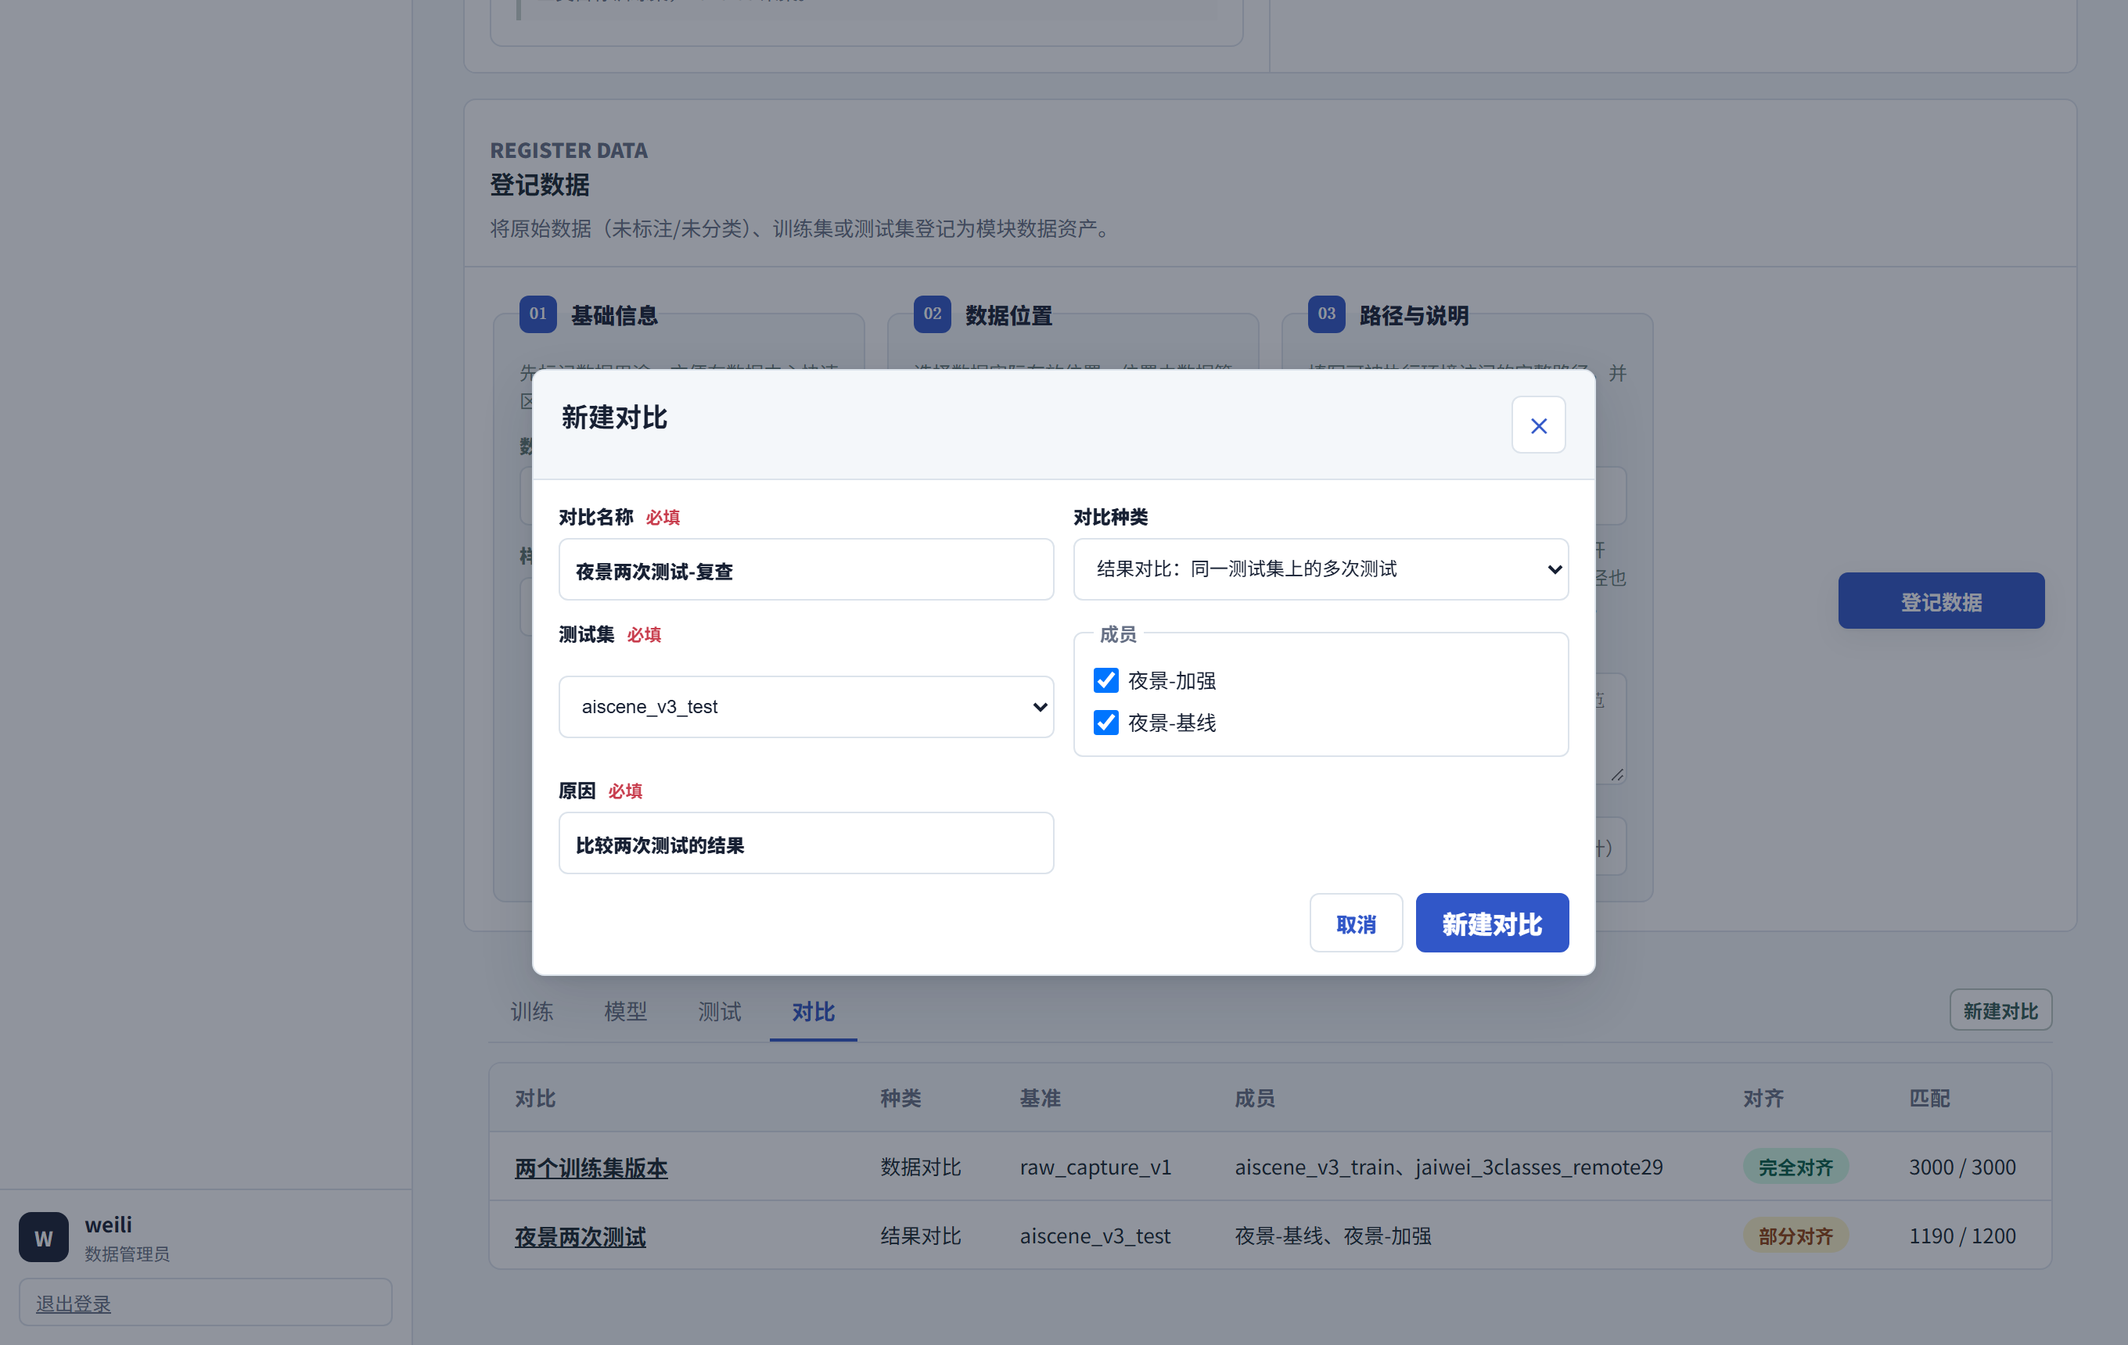
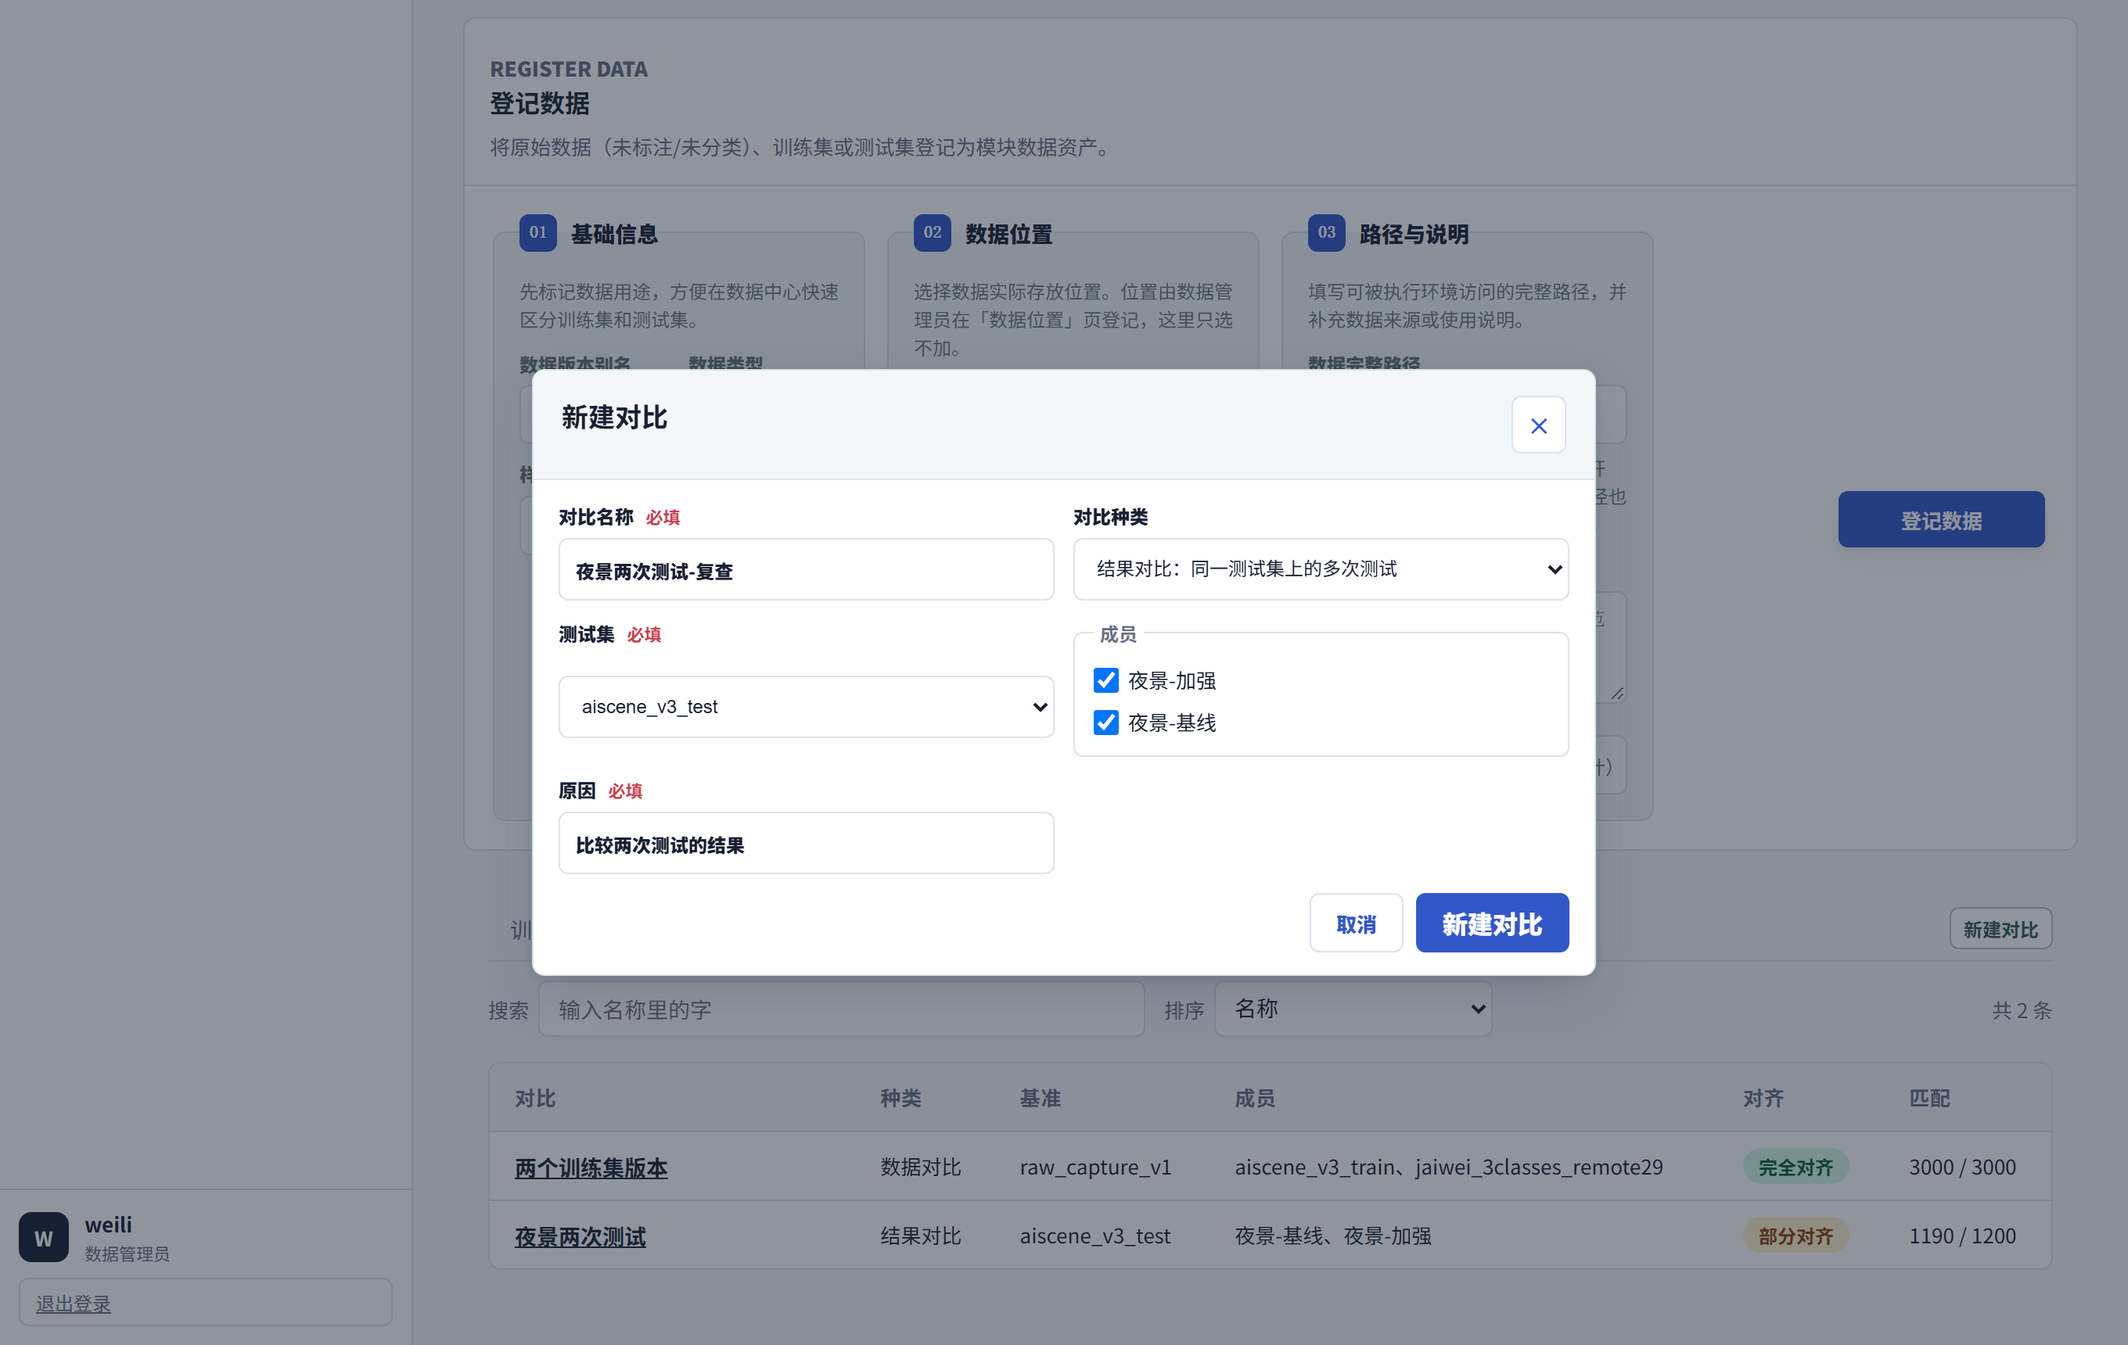
0.3.87：列表和检索的排序、筛选
- 对话教程加「列表太长时」：能怎么说、能按什么排、没冻结的排最后、模块名直接说。
- 网页教程补搜索框和排序下拉框的说明，常见现象加两条；数据平台页工具表三行补上排序。
- 更新说明 0.3.87，下载区按 installer-v0.3.87 同步；演示环境重出 14 张截图。

Claude-Session: https://claude.ai/code/session_01Dq1FxKBycmGyXBiYwHn92z

diff --git a/app/content/data-tutorials.tsx b/app/content/data-tutorials.tsx
@@ -48,6 +48,7 @@ export const dataWeb: DocPage = {
         <p>没有合适的模块时，负责人在项目页点右上角的「创建模块」。模块标识用英文，建好后不能改。没有合适的项目时，在项目列表点「创建项目」，创建的人就是负责人。</p>
         <Figure src={shot("web-create-module")} alt="创建模块对话框" caption="创建模块。模块标识、模块名称和创建原因都要填。" source="console-fixture" />
         <p>进入模块后，上面按原始数据、训练数据、测试数据分三栏列出已登记的记录，往下是登记表单，再往下是训练、模型、测试、对比四个标签。</p>
+        <p>项目列表、模块列表、三栏记录和四个标签的上方都有搜索框和排序下拉框。默认顺序和以前一样；选过的排序，下次打开同一张表还在。</p>
         <Figure src={shot("web-module")} alt="模块页" caption="模块页（数据中心）。右上角有「导入 CSV」和「合并数据」。" source="console-fixture" />
       </>,
     },
@@ -68,7 +69,7 @@ export const dataWeb: DocPage = {
           ]}
         />
         <Figure src={shot("web-register-form")} alt="填好的登记数据表单" caption="填好的登记表单。填完点右侧的「登记数据」。" source="console-fixture" />
-        <p>提交后先显示已提交，一两秒后变成「已生效」或「被拒绝」并写明原因。记录出现在上方对应的栏里。</p>
+        <p>提交后先显示已提交，一两秒后变成「已生效」或「被拒绝」并写明原因。记录出现在上方对应的栏里。记录多了以后，在三栏上方的搜索框里输入名字、描述或路径里的字就能找到，排序可以选登记时间、名称、大小、样本数或状态。</p>
         <Figure src={shot("web-registered")} alt="登记后的记录卡片" caption="登记成功。进入这条数据要点卡片上的「版本详情」。" source="console-fixture" />
       </>,
     },
@@ -160,7 +161,7 @@ export const dataWeb: DocPage = {
         />
         <FigureRow>
           <Figure src={shot("web-training-dialog")} alt="登记训练对话框" caption="登记训练。输入数据选了 night-train-v2，作训练。" source="console-fixture" />
-          <Figure src={shot("web-training-list")} alt="训练列表" caption="登记后的训练列表。" source="console-fixture" />
+          <Figure src={shot("web-training-list")} alt="训练列表" caption="登记后的训练列表。表格上方可以搜索和排序。" source="console-fixture" />
         </FigureRow>
       </>,
     },
@@ -211,6 +212,7 @@ export const dataWeb: DocPage = {
         <Figure src={shot("web-comparison-dialog")} alt="新建对比对话框" caption="新建结果对比。没冻结的基准显示为灰色，选不了。" source="console-fixture" />
         <p>建好后平台逐个样本配对，列表上显示对齐状态和匹配数。点对比名字进入对比页，能看血缘、成员信息和对齐报告。对比的基准和成员建好后不能改，建错了就新建一个。</p>
         <Figure src={shot("web-comparison-list")} alt="对比列表" caption="对比列表。匹配一栏是对上的样本数和总数。" source="console-fixture" />
+        <p>对比多了以后，排序选「状态（出问题的在前）」，对齐失败、对不上的和标着「数据已更新」的会排在前面。</p>
         <p>对比建好后，基准或成员重新冻结过、改过配对规则，对齐状态旁边会显示「数据已更新」。到对比页点「重新对齐」，见<a href={pageHref("data-review") + "#stale"}>数据已更新和重新对齐</a>。</p>
         <Note title="看图要回到 agent">图片不经过云端，要先拷到你的电脑。网页上做不了这一步，在 Claude Code 里说「打开对比 X 的查看器」，见<a href={pageHref("data-review")}>查看数据和结果对比</a>。</Note>
       </>,
@@ -314,6 +316,8 @@ export const dataWeb: DocPage = {
             ["冻结失败，提示 ssh_not_configured", "位置没填 NAS 共享名，或数据在训练机本地盘", "前者找数据管理员补填；后者目前冻结不了"],
             ["「派生自」里找不到想要的数据", "它在别的模块", "用对话方式写来源"],
             ["状态一直是进行中", "登记时没选「已完成」", "详情页点「修改」，改状态"],
+            ["选过的排序下次没记住", "无痕窗口，或浏览器禁止网站存数据", "不影响使用，按默认顺序显示"],
+            ["三栏上方提示只显示最新的 N 条", "这个模块的记录超过一次能取回的量（500 条）", "排序和搜索只在这 N 条里；用搜索框缩小范围"],
             ["测试集下拉框是空的", "这个模块没有测试数据", "先登记测试数据"],
             ["新建对比时基准是灰的", "它还没冻结", "到版本页先冻结"],
             ["新建对比时基准标着「（没有图片）」", "数据里没有图片，比如只有 .npy", <>在训练环境转成图片，登记成新版本，见<a key="a" href="#no-images">不是图片的数据</a></>],
@@ -574,7 +578,34 @@ export const dataAgent: DocPage = {
     {
       id: "check", title: "查登记结果",
       body: <>
-        <p>直接问 agent，比如「phase2 里有哪些数据，来源是什么」「reg-test-v2 冻结完了吗」。也可以到<a href={pageHref("data-web")}>网页</a>上看：模块页列出所有记录，版本页显示清单状态和来源。</p>
+        <p>直接问 agent，比如「phase2 里有哪些数据，来源是什么」「reg-test-v2 冻结完了吗」。也可以到<a href={pageHref("data-web")}>网页</a>上看：模块页列出所有记录，版本页显示清单状态和来源。数据多的时候见<a href="#long-lists">列表太长时</a>。</p>
+      </>,
+    },
+    {
+      id: "long-lists", title: "列表太长时",
+      body: <>
+        <p>v0.3.87 起，列数据、搜数据、看清单里的文件都能排序和缩小范围。结果比显示的多时，agent 会先说一共多少条，再问你要不要缩小或换个排法。</p>
+        <Matrix
+          head={["想要", "可以这样说"]}
+          rows={[
+            ["按大小", "phase2 的测试数据按大小从大到小"],
+            ["只看一类", "phase2 里只看原始数据"],
+            ["按名称", "搜一下名字带 reg-test 的数据，按名称排"],
+            ["按模块", "所有项目里的测试数据，按模块排"],
+            ["最新的几条", "所有项目里最近登记的 5 条训练数据"],
+            ["出问题的在前", "phase2 的对比按状态排"],
+            ["最大的文件", "reg-test-mset 里最大的 10 个文件"],
+            ["某个来源的文件", "reg-test-mset 里只看来源 reg-test-set 的文件"],
+            ["翻页", "再给我看后面 20 条"],
+          ]}
+        />
+        <p>能按登记时间、名称、模块、大小、样本数、类型、状态排。几点说明：</p>
+        <ul>
+          <li>没冻结的数据还没有大小，按大小排时放在最后，正着排倒着排都一样。</li>
+          <li>名称按字符排，v10 会排在 v2 前面。网页上是按自然顺序排的，v2 在前。</li>
+          <li>模块直接说名字或标识（如 phase2）就行，agent 会按模块查，不会把它当成数据名字里的字。</li>
+          <li>状态排序把出问题的放前面：冻结失败、正在冻结、还没冻结，然后才是已冻结；训练和测试是失败和已中止、进行中、已完成；对比是对齐失败、基本对不上、部分对齐、对齐中、完全对齐，网页上标着「数据已更新」的完全对齐排在没标的前面。</li>
+        </ul>
       </>,
     },
     {
@@ -624,6 +655,8 @@ export const dataAgent: DocPage = {
             ["训练或测试一直显示进行中", "登记时没写状态", "说「把这次训练的状态改成已完成」"],
             ["改来源时提示这份数据有多个来源", "安装器低于 v0.3.86，旧版只能写一个来源", "升级到 v0.3.86 起，或到网页上改"],
             ["agent 说不能建合并集", "安装器低于 v0.3.86", "升级后开新会话"],
+            ["说「按大小排」，agent 说做不到，或者拿回来自己排", "安装器低于 v0.3.87", "升级后开新会话"],
+            ["按大小排时有几条排在最后、没有大小", "这几条还没冻结", "正常，冻结后就有大小"],
             ["合并被拒绝", "有成员没冻结、正在冻结、类型不同、本身是合并集，或来源名不合规则", "按提示处理"],
             ["建对比或打开查看器提示没有可看的图片", "数据是 .npy 等非图片文件", <>在训练环境转成图片，见<a key="a" href="#no-images">不是图片的数据</a></>],
           ]}

diff --git a/app/content/platform.tsx b/app/content/platform.tsx
@@ -271,7 +271,7 @@ export const dataPlatform: DocPage = {
             [<code key="t">list_data_projects</code>, "列出我能看到的项目，带我的角色、模块数、记录数", "所有人"],
             [<code key="t">list_data_modules</code>, "列出某个项目的模块，带三类数据各多少条", "项目成员，含只读"],
             [<code key="t">list_data_locations</code>, "列出可以选的数据位置：名字、IP、服务器还是共享盘", "所有人"],
-            [<code key="t">search_data_records</code>, "按关键词、项目、模块、数据类型搜数据记录", "项目成员"],
+            [<code key="t">search_data_records</code>, "按关键词、项目、模块、数据类型搜数据记录，可以跨模块。v0.3.87 起能按登记时间、名称、模块、大小、样本数、类型排序", "项目成员"],
             [<code key="t">get_data_record</code>, "看一条记录的详情和修改历史", "项目成员"],
             [<code key="t">list_data_accounts</code>, "列出已开通的账号，加成员时从这里挑", "数据管理员"],
             [<code key="t">create_data_project</code>, "建项目，调用的人成为负责人", "所有人"],
@@ -279,9 +279,9 @@ export const dataPlatform: DocPage = {
             [<code key="t">set_data_project_member</code>, "加成员或改角色（负责人、成员、只读）", "项目负责人"],
             [<code key="t">register_data_record</code>, "登记一条数据，必须给数据类型（v0.3.83 起）。别名在模块里已存在时不写入，返回已有的那条", "负责人、成员"],
             [<code key="t">register_data_records</code>, "一次最多登记 200 条，每条都要给数据类型，每条单独检查，错的那条不影响其他条", "负责人、成员"],
-            [<code key="t">list_data_assets</code>, "列出模块里的数据集版本、训练、模型、测试或对比（v0.3.80 起）", "项目成员"],
+            [<code key="t">list_data_assets</code>, "列出模块里的数据集版本、训练、模型、测试或对比（v0.3.80 起）。v0.3.87 起能按登记时间、名称、状态排序，数据集还能按大小、样本数排、按类型筛", "项目成员"],
             [<code key="t">get_data_asset</code>, "看一个对象的详情：路径、清单状态、血缘、说明，对比还带对齐报告（v0.3.80 起）", "项目成员"],
-            [<code key="t">list_manifest_entries</code>, "翻看冻结清单里的文件（v0.3.80 起）", "项目成员"],
+            [<code key="t">list_manifest_entries</code>, "翻看冻结清单里的文件（v0.3.80 起）。v0.3.87 起能按大小、文件类型排序，按类别筛（合并集的类别就是来源名）", "项目成员"],
             [<code key="t">manage_dataset_manifest</code>, "冻结或复核文件清单。不复制文件，大数据集要跑几个小时（v0.3.80 起）", "负责人、成员"],
             [<code key="t">set_dataset_lineage</code>, "写清数据从哪几份数据来、输入和目标怎么配对（v0.3.80 起）。v0.3.86 起可以写多个来源，每个来源一段处理说明", "负责人、成员"],
             [<code key="t">update_asset_doc</code>, "写数据集、训练、模型的说明，每次保存留一个修订（v0.3.80 起）", "负责人、成员"],

diff --git a/app/release-data.ts b/app/release-data.ts
@@ -41,38 +41,38 @@ export type ReleaseData = {
 };
 
 export const release: ReleaseData = {
-  version: "0.3.86",
-  tag: "installer-v0.3.86",
-  publishedAt: "2026-11-02T14:28:25Z",
-  releaseDate: "2026-11-02",
+  version: "0.3.87",
+  tag: "installer-v0.3.87",
+  publishedAt: "2026-11-04T03:51:51Z",
+  releaseDate: "2026-11-04",
   assets: [
     {
       platform: "Windows x64",
-      file: "AIIGovernance-Setup-installer-v0.3.86.exe",
[1 lines of base64/hex data omitted]
-      bytes: 143704547,
+      file: "AIIGovernance-Setup-installer-v0.3.87.exe",
[1 lines of base64/hex data omitted]
+      bytes: 143705691,
     },
     {
       platform: "Ubuntu / WSL x64",
-      file: "AIIGovernance-Setup-linux-x64-v0.3.86.tar.gz",
[1 lines of base64/hex data omitted]
-      bytes: 318662537,
+      file: "AIIGovernance-Setup-linux-x64-v0.3.87.tar.gz",
[1 lines of base64/hex data omitted]
+      bytes: 318678224,
     },
     {
       platform: "macOS Apple Silicon",
-      file: "AIIGovernance-Setup-macos-arm64-v0.3.86.zip",
[1 lines of base64/hex data omitted]
-      bytes: 97089463,
+      file: "AIIGovernance-Setup-macos-arm64-v0.3.87.zip",
[1 lines of base64/hex data omitted]
+      bytes: 97092401,
     },
     {
       platform: "macOS Intel",
-      file: "AIIGovernance-Setup-macos-x64-v0.3.86.zip",
[1 lines of base64/hex data omitted]
-      bytes: 96313072,
+      file: "AIIGovernance-Setup-macos-x64-v0.3.87.zip",
[1 lines of base64/hex data omitted]
+      bytes: 96313161,
     },
   ],
   source: "github-release",
-  syncedAt: "2026-11-02T14:51:45Z",
+  syncedAt: "2026-11-04T03:59:58Z",
 };
 
 /** "0.3.53" → "v0.3.53" */

diff --git a/app/release-notes.ts b/app/release-notes.ts
@@ -17,6 +17,16 @@ export type ReleaseNote = {
 };
 
 export const releaseNotes: Record<string, ReleaseNote> = {
+  "0.3.87": {
+    summary:
+      "功能版本：对话里列数据、搜数据可以排序和缩小范围；网页上的列表都加了搜索框和排序。MCP 工具还是 31 个。",
+    highlights: [
+      "对话里列数据、搜数据、看清单里的文件时，可以说「按大小从大到小」「只看测试数据」「按模块排」「最大的 10 个文件」。能按登记时间、名称、模块、大小、样本数、类型、状态排；没冻结的数据没有大小，排在最后。",
+      "结果比显示的多时，agent 会先说一共多少条，再问你要不要缩小范围或换个排法，不再一下列一整页。说模块名（如 phase2）时，agent 会按模块查，不会把它当成数据名字里的字。",
+      "数据平台网页的数据卡片、训练、模型、测试、对比、评审首页、项目和模块列表都加了搜索框和排序下拉框。默认顺序和以前一样，选过的排序下次打开还在。网页这部分已经上线，不用升级安装器。",
+      "修复：一次批量登记的数据，翻页列出来时不再漏条或重复。后台同步程序升到 0.4.21，治理框架没有变。",
+    ],
+  },
   "0.3.86": {
     summary:
       "功能版本：一份数据可以有多个来源；几份已冻结的数据可以原样合并成一个数据集；没有图片的数据会给出提示。MCP 工具还是 31 个。",
